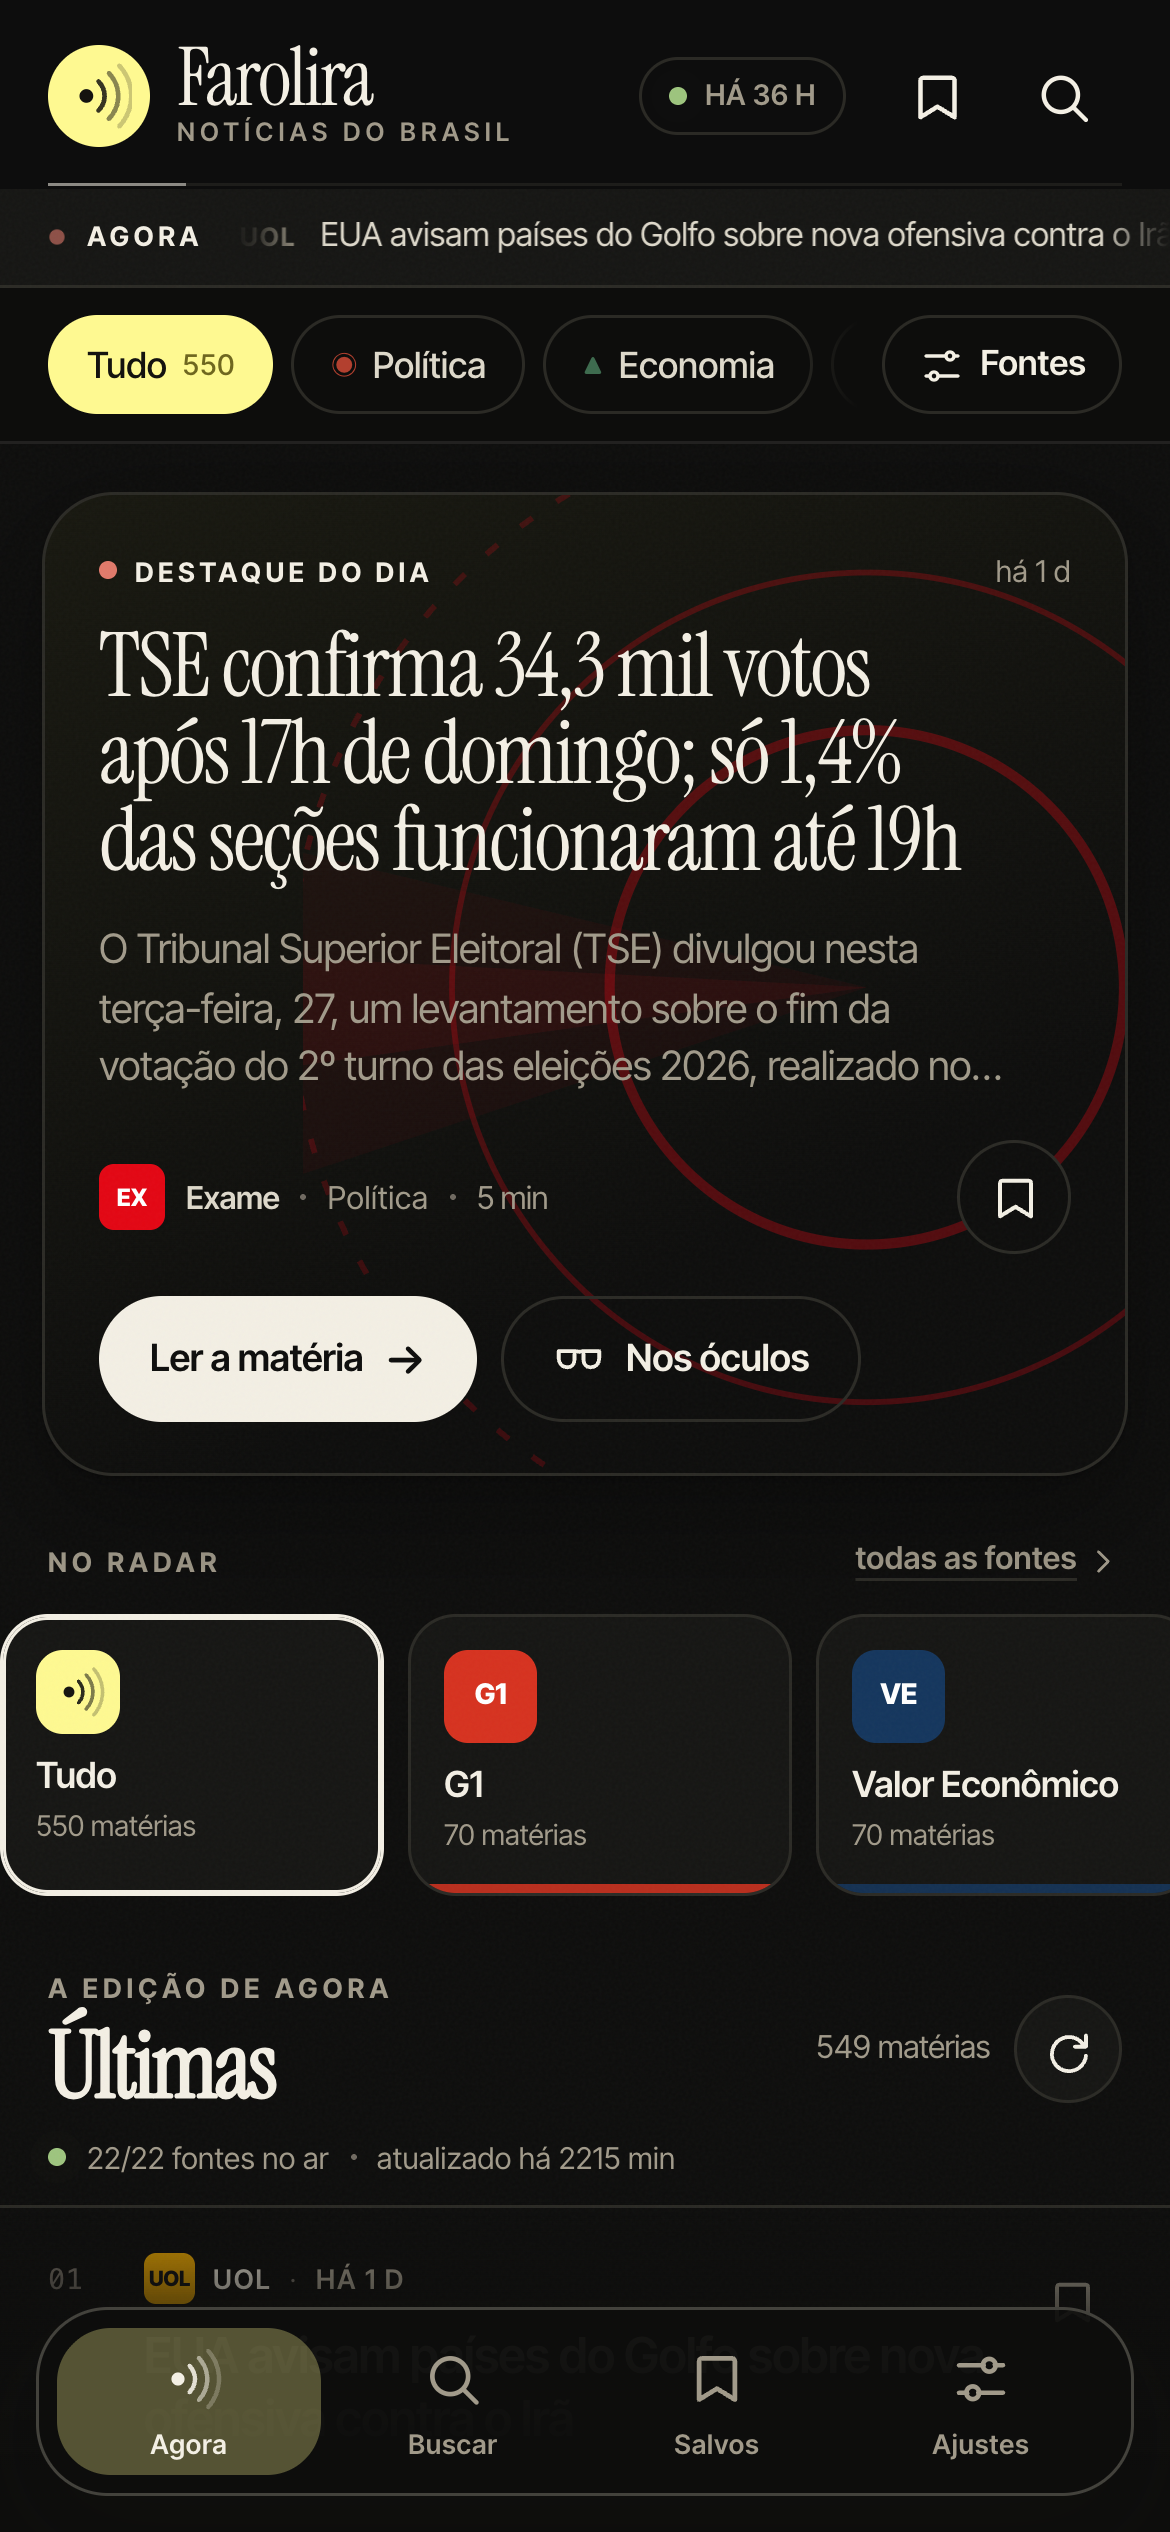
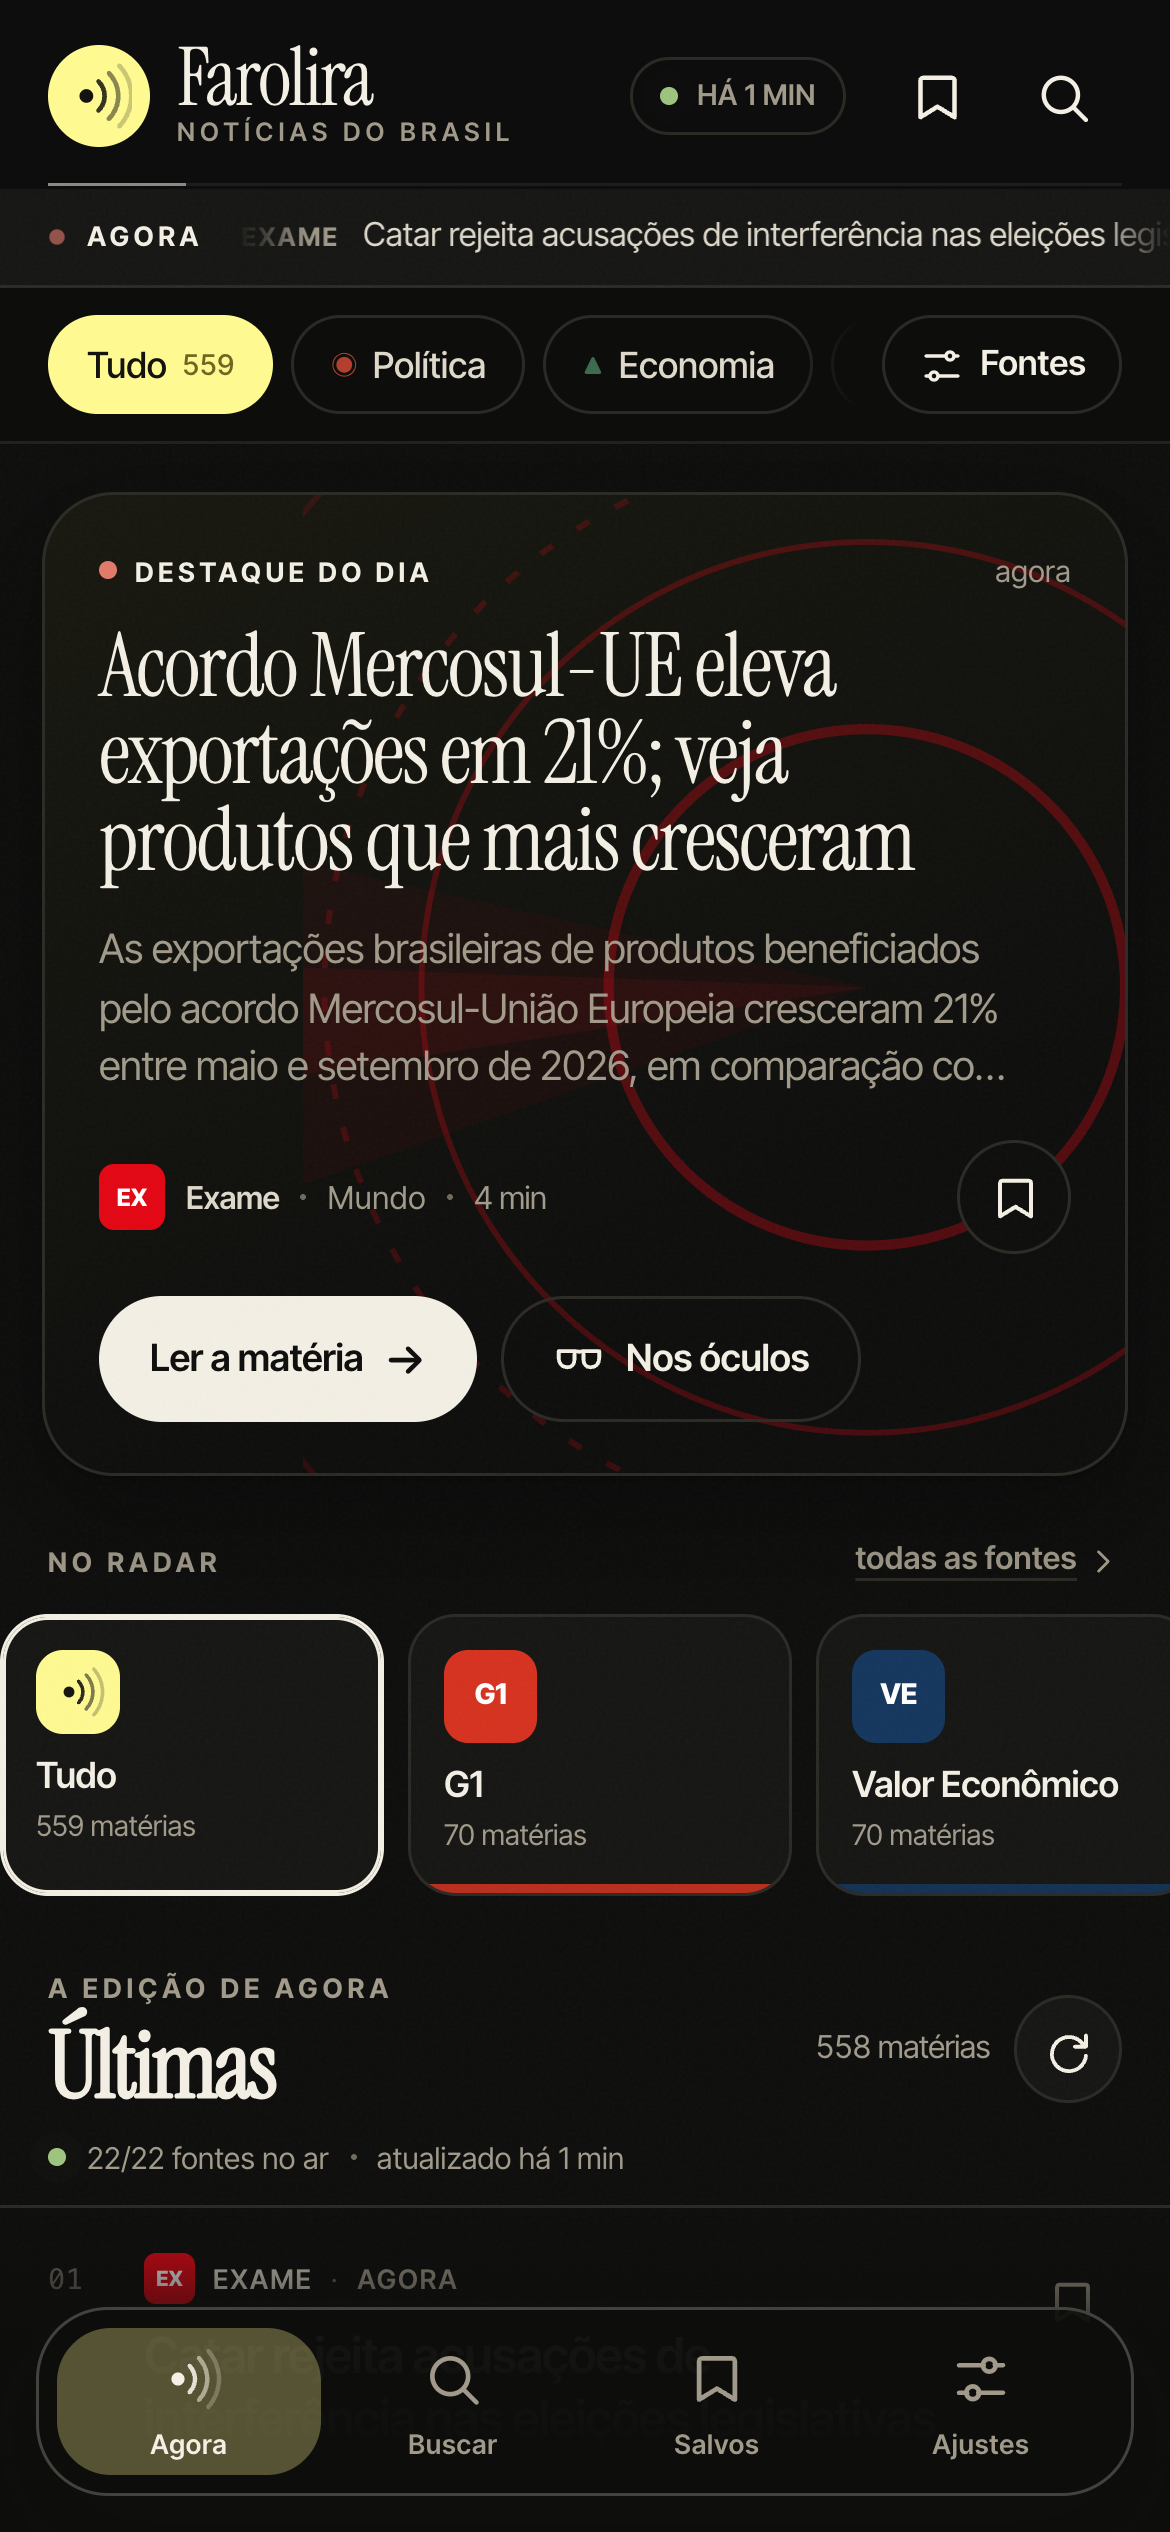
fix: manchete prioriza notícia dura e recaptura com Farolira

diff --git a/src/App.tsx b/src/App.tsx
@@ -58,10 +58,12 @@ function readRecent(): string[] {
 
 const HERO_CATEGORIES = new Set(['politica', 'economia', 'mundo', 'justica', 'cidades', 'ciencia', 'saude'])
 const LOW_SIGNAL = /(lotof[aá]cil|quina|mega-sena|lotomania|sorteio|resultado do|hor[oó]scopo|bbb|celebridade|fofoca)/i
+const HARD_NEWS = /(elei[çc][ãa]o|elei[çc][õo]es|governo|congresso|senado|c[âa]mara|stf|supremo|economia|d[óo]lar|juros|infla[çc][ãa]o|guerra|acordo|presidente|lula|bolsonaro|pol[íi]cia|crime|julgamento|pris[ãa]o|morte|acidente|greve|reforma|tarifa|ibovespa|ministro|deputado|senador|justi[çc]a|ataque|bomba|terremoto|cat[áa]strofe)/i
+const FEATURE = /(golfinhos|baleias|mirante|arquip[ée]lago|praia|viagem|turismo|curiosidade|natureza|fotos|imagens|v[íi]deo|p[ôo]r do sol|receita|restaurante|hotel|destino)/i
 
-/** Escolhe a manchete do topo: relevância editorial acima da rajada do feed. */
+/** Escolhe a manchete do topo: notícia dura e recente acima de curiosidade/feature. */
 function pickHero(articles: ArticleMeta[]): ArticleMeta | null {
-  const candidates = articles.slice(0, 40)
+  const candidates = articles.slice(0, 25)
   if (!candidates.length) return null
   let best = candidates[0]
   let bestScore = Number.NEGATIVE_INFINITY
@@ -69,11 +71,14 @@ function pickHero(articles: ArticleMeta[]): ArticleMeta | null {
     let score = 0
     if (HERO_CATEGORIES.has(article.category)) score += 3
     if (article.category === 'geral') score += 1
-    if (article.full) score += 1.2
-    score += Math.min(2, article.readingMin * 0.25)
+    if (article.full) score += 1
+    score += Math.min(1, article.readingMin * 0.1)
+    if (HARD_NEWS.test(article.title)) score += 2.5
+    if (FEATURE.test(article.title)) score -= 5
+    if (article.title.length > 130) score -= 1.5
     if (LOW_SIGNAL.test(article.title)) score -= 6
     const ageHours = Math.max(0, (Date.now() - Date.parse(article.publishedAt)) / 3_600_000)
-    score -= ageHours * 0.12
+    score -= Math.min(3, ageHours * 0.05)
     if (score > bestScore) {
       best = article
       bestScore = score
